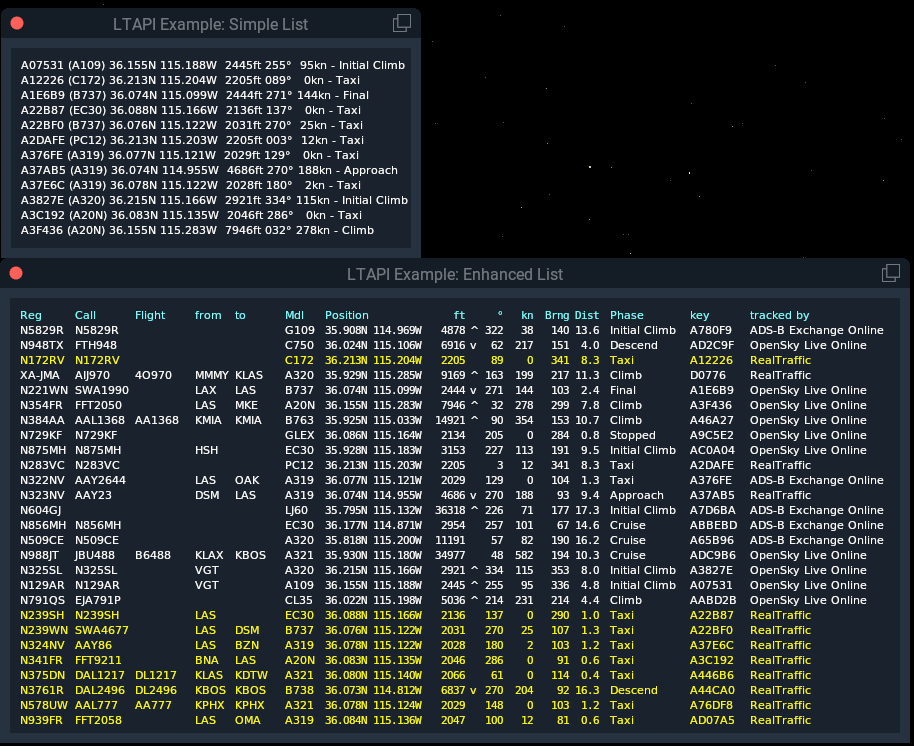
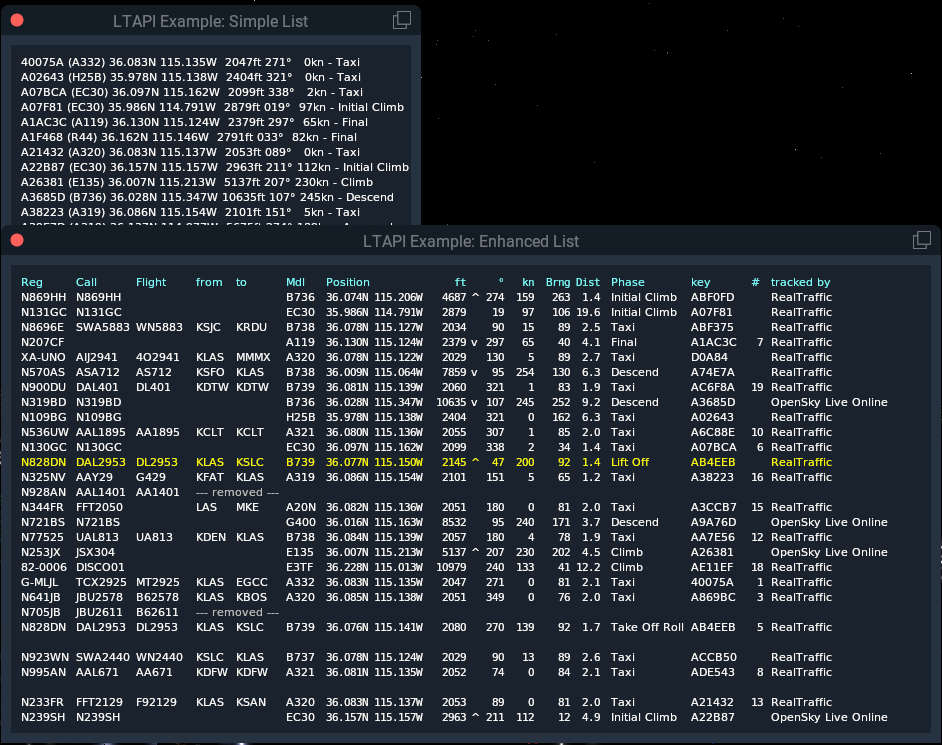
Added getMultiIdx and getAcByMultIdx
to combine LTAPI with classical multiplay usage

Changed region(s): [[0.0, 0.0, 1.0, 1.0]]

diff --git a/LTAPI.h b/LTAPI.h
@@ -112,8 +112,12 @@ public:
             bool        bcn        : 1;     ///< beacon light
             bool        strb       : 1;     ///< strobe light
             bool        nav        : 1;     ///< navigaton lights
-            
-            unsigned    filler     : 2;     ///< unused, fills up to 8 byte alignment
+            unsigned    filler1    : 2;     ///< unused, fills up to byte alignment
+            // Misc
+            int         multiIdx    : 8;    ///< multiplayer index if plane reported via sim/multiplayer/position dataRefs, 0 if not
+            // Filler for 8-byte alignment
+            unsigned    filler2     : 8;
+            unsigned    filler3     : 32;
         } bits;                             ///< Flights phase, on-ground status, lights
         
         /// Constructor initializes some data without defaults
@@ -229,6 +233,7 @@ public:
     // simulation
     float           getBearing()        const { return bulk.bearing; }          ///< [°] to current camera position
     float           getDistNm()         const { return bulk.dist_nm; }          ///< [nm] distance to current camera
+    int             getMultiIdx()       const { return bulk.bits.multiIdx; }    ///< multiplayer index if plane reported via sim/multiplayer/position dataRefs, 0 if not
 
 public:
     /// @brief Standard object creation callback.
@@ -241,7 +246,7 @@ public:
 //
 
 /// Smart pointer to an TLAPIAircraft object
-typedef std::unique_ptr<LTAPIAircraft> UPtrLTAPIAircraft;
+typedef std::shared_ptr<LTAPIAircraft> SPtrLTAPIAircraft;
 
 /// @brief Map of all aircrafts stored as smart pointers to LTAPIAircraft objects
 ///
@@ -253,13 +258,13 @@ typedef std::unique_ptr<LTAPIAircraft> UPtrLTAPIAircraft;
 /// As we use smart pointers, object storage is deallocated as soon
 /// as objects are removed from the map. Effectively, the map manages
 /// storage.
-typedef std::map<std::string,UPtrLTAPIAircraft> MapLTAPIAircraft;
+typedef std::map<std::string,SPtrLTAPIAircraft> MapLTAPIAircraft;
 
 /// @brief Simple list of smart pointers to LTAPIAircraft objects
 ///
 /// This is used to return aircraft objects which got removed by LiveTraffic,
 /// see LTAPIConnect::UpdateAcList()
-typedef std::list<UPtrLTAPIAircraft> ListLTAPIAircraft;
+typedef std::list<SPtrLTAPIAircraft> ListLTAPIAircraft;
 
 /// @brief Connects to LiveTraffic's dataRefs and returns aircraft information.
 ///
@@ -346,7 +351,14 @@ public:
     ///        management of them is then up to you.
     ///        LTAPI will only _emplace_back_ to the list, never remove anything.
     const MapLTAPIAircraft& UpdateAcList (ListLTAPIAircraft* plistRemovedAc = nullptr);
+    
+    /// Returns the map of aircraft as it currently stands
     const MapLTAPIAircraft& getAcMap () const { return mapAc; }
+    
+    /// @brief Finds an aircraft for a given multiplayer slot
+    /// @param multiIdx The multiplayer index to look for
+    /// @return Pointer to aircraft in slot `multiIdx`, is empty if not found
+    SPtrLTAPIAircraft getAcByMultIdx (int multiIdx) const;
     
 protected:
     /// @brief fetch bulk data and create/update aircraft objects

diff --git a/Example/LTAPIExample.cpp b/Example/LTAPIExample.cpp
@@ -143,7 +143,7 @@ PLUGIN_API int XPluginStart(
     // put it below the simple window:
     params.top  = params.bottom - 20;
     params.bottom = params.top - 200;           // height: 200
-    params.right = params.left + 700;           // width: 670
+    params.right = params.left + 920;           // width: 670
 
     // use the drawing function for the enhanced example
     params.drawWindowFunc = draw_list_enhanced;
@@ -401,6 +401,11 @@ void EnhAircraft::DrawOutput(int x, int y, int r, int)
         DRAW_N(35, getDistNm(), 4, 1);
         DRAW_S(80, getPhaseStr());
         DRAW_S(60, getKey());
+        if (getMultiIdx() > 0) {
+            DRAW_N(20, double(getMultiIdx()), 2, 0);
+        } else {
+            DRAW_T(20, "", xplmFont_Proportional);
+        }
         DRAW_S(110, getTrackedBy());
     }
     else if (dispStatus >= ED_SHOW_REMOVED)
@@ -485,6 +490,7 @@ void    draw_header (int x, int y, int r)
     DRAW_T(35,  "Dist",     xplmFont_Basic);
     DRAW_T(80,  "Phase",    xplmFont_Proportional);
     DRAW_T(60,  "key",      xplmFont_Proportional);
+    DRAW_T(20,  "#",        xplmFont_Proportional);
     DRAW_T(110, "tracked by", xplmFont_Proportional);
 }
 

diff --git a/LTAPI.cpp b/LTAPI.cpp
@@ -379,6 +379,22 @@ const MapLTAPIAircraft& LTAPIConnect::UpdateAcList (ListLTAPIAircraft* plistRemo
     return mapAc;
 }
 
+// Finds an aircraft for a given multiplayer slot
+SPtrLTAPIAircraft LTAPIConnect::getAcByMultIdx (int multiIdx) const
+{
+    // sanity check: Don't search for 0...there are too many of them
+    if (multiIdx < 1)
+        return SPtrLTAPIAircraft();
+    
+    // search the map for a matching aircraft
+    MapLTAPIAircraft::const_iterator iter =
+    std::find_if(mapAc.cbegin(), mapAc.cend(),
+                 [multiIdx](const MapLTAPIAircraft::value_type& pair)
+                 { return pair.second->getMultiIdx() == multiIdx; });
+    
+    // return a copy of they pointer if found
+    return iter == mapAc.cend() ? SPtrLTAPIAircraft() : iter->second;
+}
 
 
 // fetch bulk data and create/update aircraft objects
